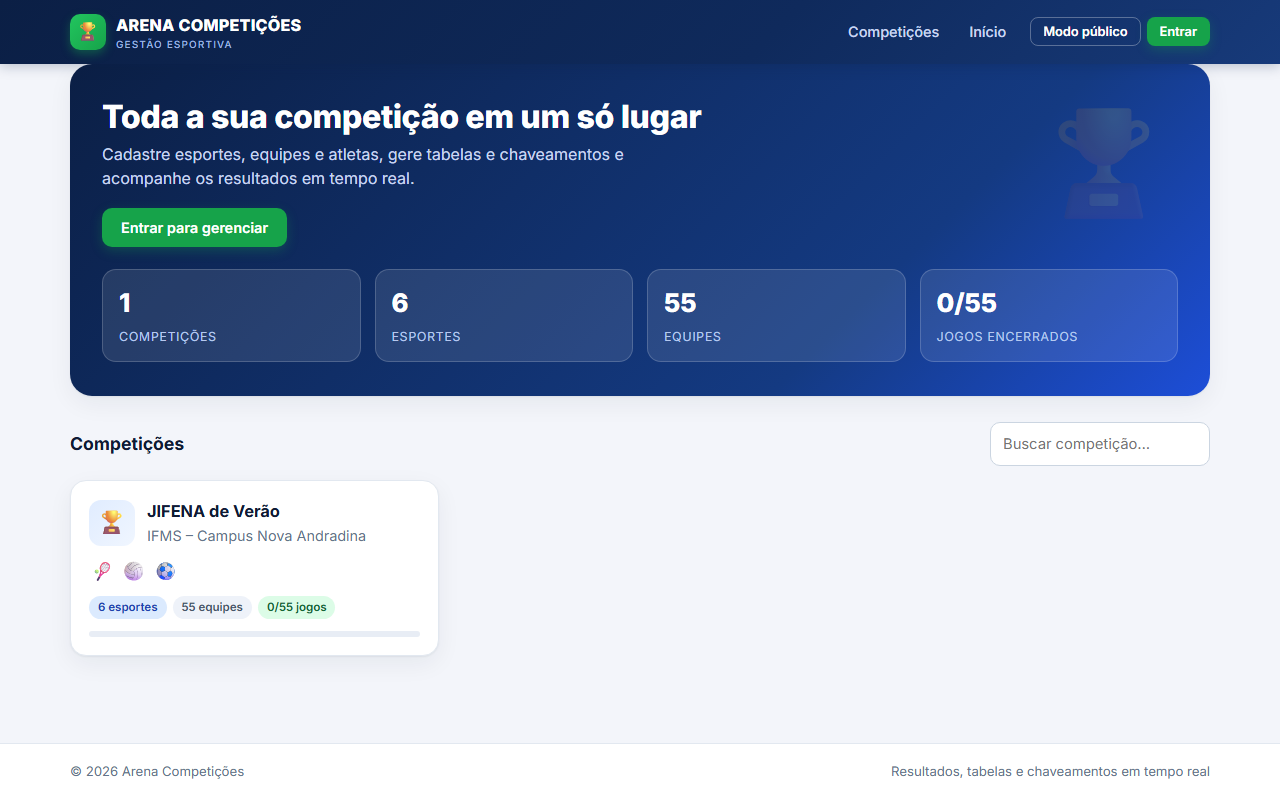
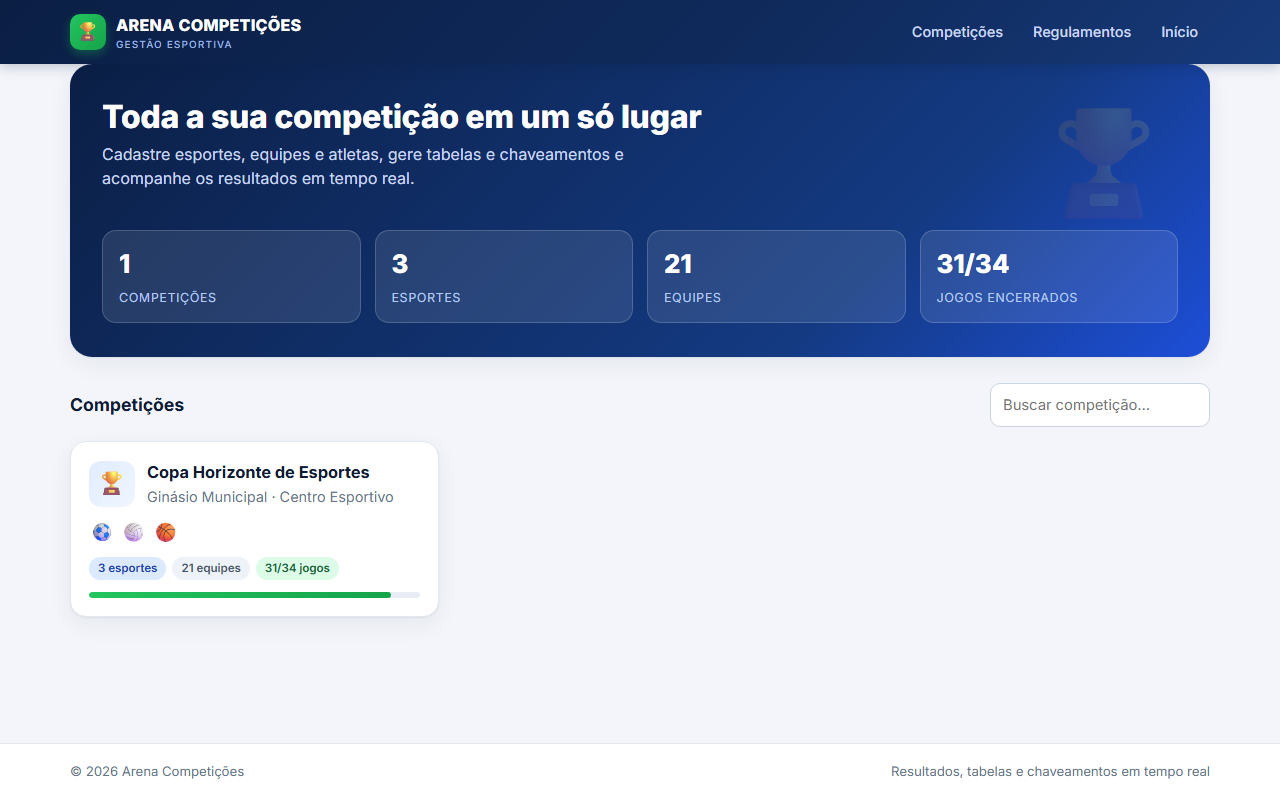
fix: propaganda sem dados reais (exemplos fictícios e novas capturas de tela)

Changed region(s): [[0.0312, 0.25, 0.9688, 0.7812], [0.6562, 0.0, 0.9688, 0.0625]]

diff --git a/index.html b/index.html
@@ -154,9 +154,9 @@ input:focus,select:focus,textarea:focus{outline:none;border-color:var(--blue);bo
 
 <section class="alt" id="ao-vivo">
  <div class="wrap">
-  <div class="eyebrow">Ao vivo</div>
-  <h2>Competições em andamento</h2>
-  <p class="sub">Clique em uma competição para ver esportes, jogos, chaveamentos e classificações.</p>
+  <div class="eyebrow">Exemplos</div>
+  <h2>Cada competição ganha a sua página</h2>
+  <p class="sub">Exemplos fictícios do que o público vê: esportes, jogos, chaveamentos e classificações em um só endereço.</p>
   <div class="grid g3" id="listaVivo"><div class="card"><p>Carregando competições…</p></div></div>
  </div>
 </section>
@@ -364,24 +364,19 @@ document.getElementById("vitrineRegras").innerHTML = ["futebol", "futsal", "vole
   return r ? '<a class="card live" href="regulamentos.html#' + r.id + '"><div class="ico">' + r.ico + "</div><h3>" + esc(r.nome) + "</h3><p>" + esc(r.cat) + "</p></a>" : "";
 }).join("");
 
-/* competições reais do banco */
-fetch(SUPA + "/rest/v1/competicoes?select=id,nome,local,esportes(id,modalidade,sexo,ordem)&order=ordem", { headers: { apikey: CHAVE } })
-  .then(function (r) { if (!r.ok) throw new Error(r.status); return r.json(); })
-  .then(function (lista) {
-    var box = document.getElementById("listaVivo");
-    if (!lista.length) { box.innerHTML = '<div class="card"><h3>Em breve</h3><p>Nenhuma competição publicada ainda.</p></div>'; return; }
-    box.innerHTML = lista.map(function (c) {
-      var esp = (c.esportes || []).sort(function (a, b) { return a.ordem - b.ordem; });
-      var nomes = esp.map(function (e) { return e.modalidade; }).filter(function (m, i, a) { return a.indexOf(m) === i; });
-      var chips = nomes.map(function (m) { return '<span class="esp">' + icone(m) + " " + esc(m) + "</span>"; }).join("");
-      return '<a class="card live comp" href="app.html#/c/' + encodeURIComponent(c.id) + '"><div class="topo"><span class="live-tag"><i></i>Em andamento</span><h3>' + esc(c.nome) + '</h3><p>' +
-        esc(c.local || "Competição esportiva") + '</p></div><div class="corpo"><div class="esps">' + chips + '</div><div class="ver"><span>' +
-        esp.length + (esp.length === 1 ? " disputa" : " disputas") + ' · ver jogos e tabelas</span><b>→</b></div></div></a>';
-    }).join("");
-  })
-  .catch(function () {
-    document.getElementById("listaVivo").innerHTML = '<div class="card"><h3>Competições</h3><p>Não foi possível carregar agora. <a href="app.html" style="color:var(--blue);font-weight:600">Abrir o painel</a>.</p></div>';
-  });
+/* exemplo fictício de competição (a propaganda não usa dados reais) */
+(function () {
+  var ex = [
+    { nome: "Copa Horizonte de Esportes", local: "Ginásio Municipal · Centro Esportivo", esp: ["Futsal", "Vôlei de quadra", "Basquete"], n: 3 },
+    { nome: "Torneio Interescolar de Verão", local: "Complexo Esportivo Escolar", esp: ["Futebol Society", "Handebol", "Vôlei de Praia"], n: 3 },
+    { nome: "Liga Master Amadora", local: "Arena Municipal", esp: ["Futebol Suíço", "Beach Tênis"], n: 2 }
+  ];
+  document.getElementById("listaVivo").innerHTML = ex.map(function (c) {
+    var chips = c.esp.map(function (m) { return '<span class="esp">' + icone(m) + " " + esc(m) + "</span>"; }).join("");
+    return '<a class="card live comp" href="app.html"><div class="topo"><span class="live-tag"><i></i>Exemplo</span><h3>' + esc(c.nome) + "</h3><p>" + esc(c.local) +
+      '</p></div><div class="corpo"><div class="esps">' + chips + '</div><div class="ver"><span>' + c.n + " disputas · começar a minha</span><b>→</b></div></div></a>";
+  }).join("");
+})();
 
 /* contato: grava na tabela "contatos" do Supabase */
 var dlg = document.getElementById("dlg"), frm = document.getElementById("frm"), msg = document.getElementById("frmMsg"), btn = document.getElementById("frmBtn");
